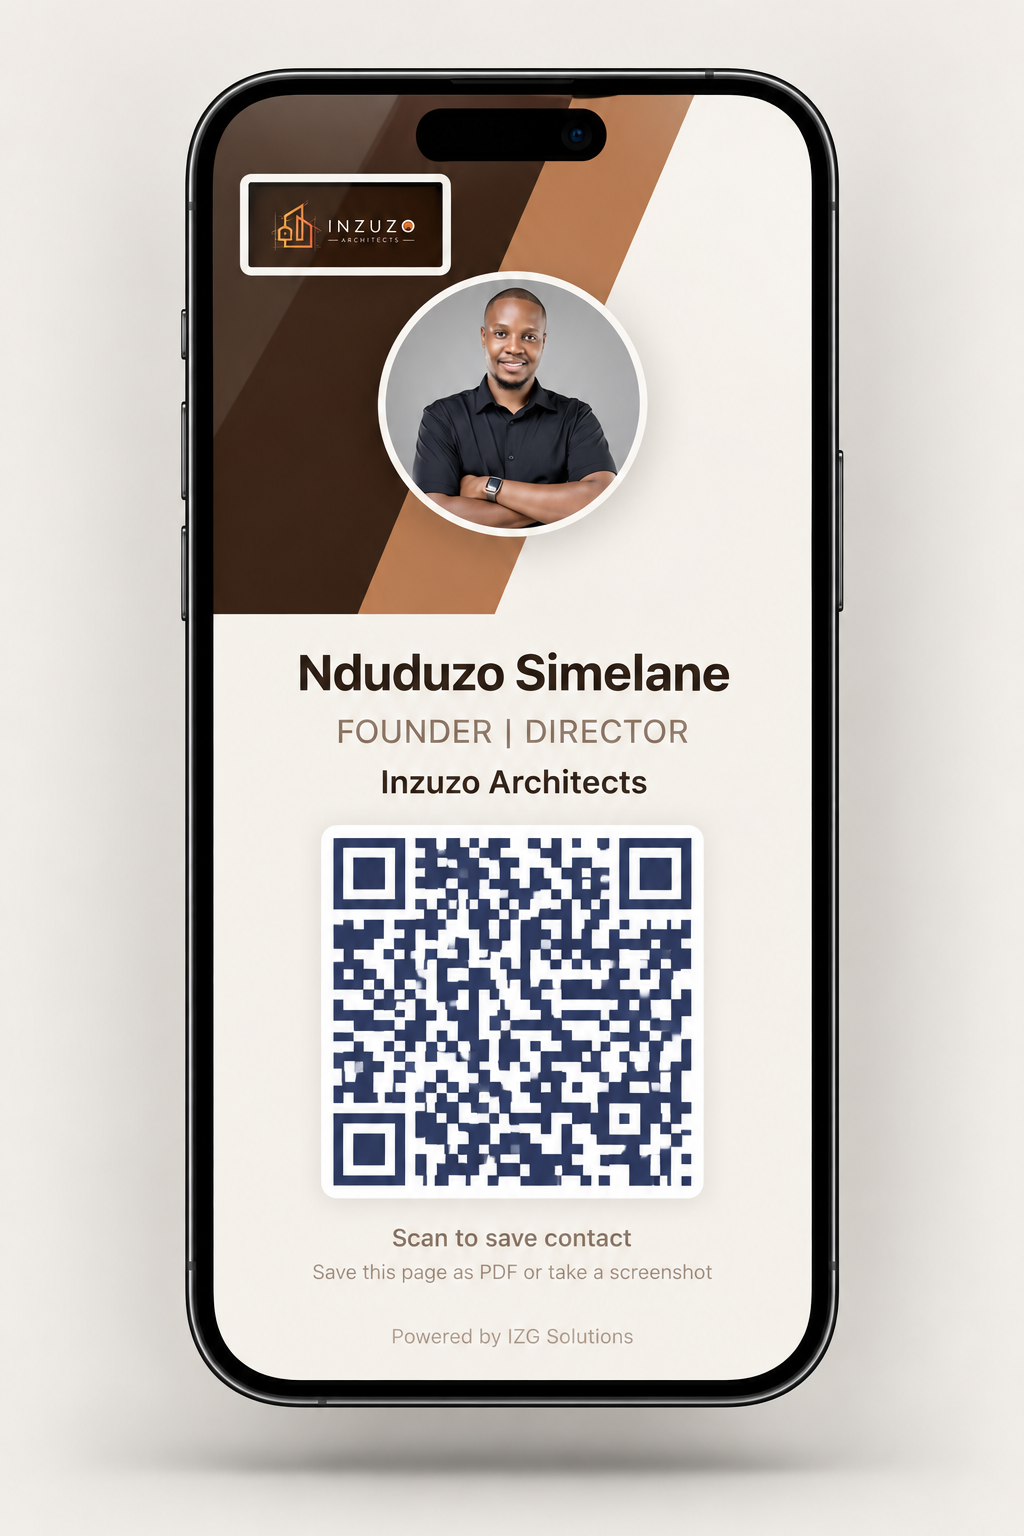
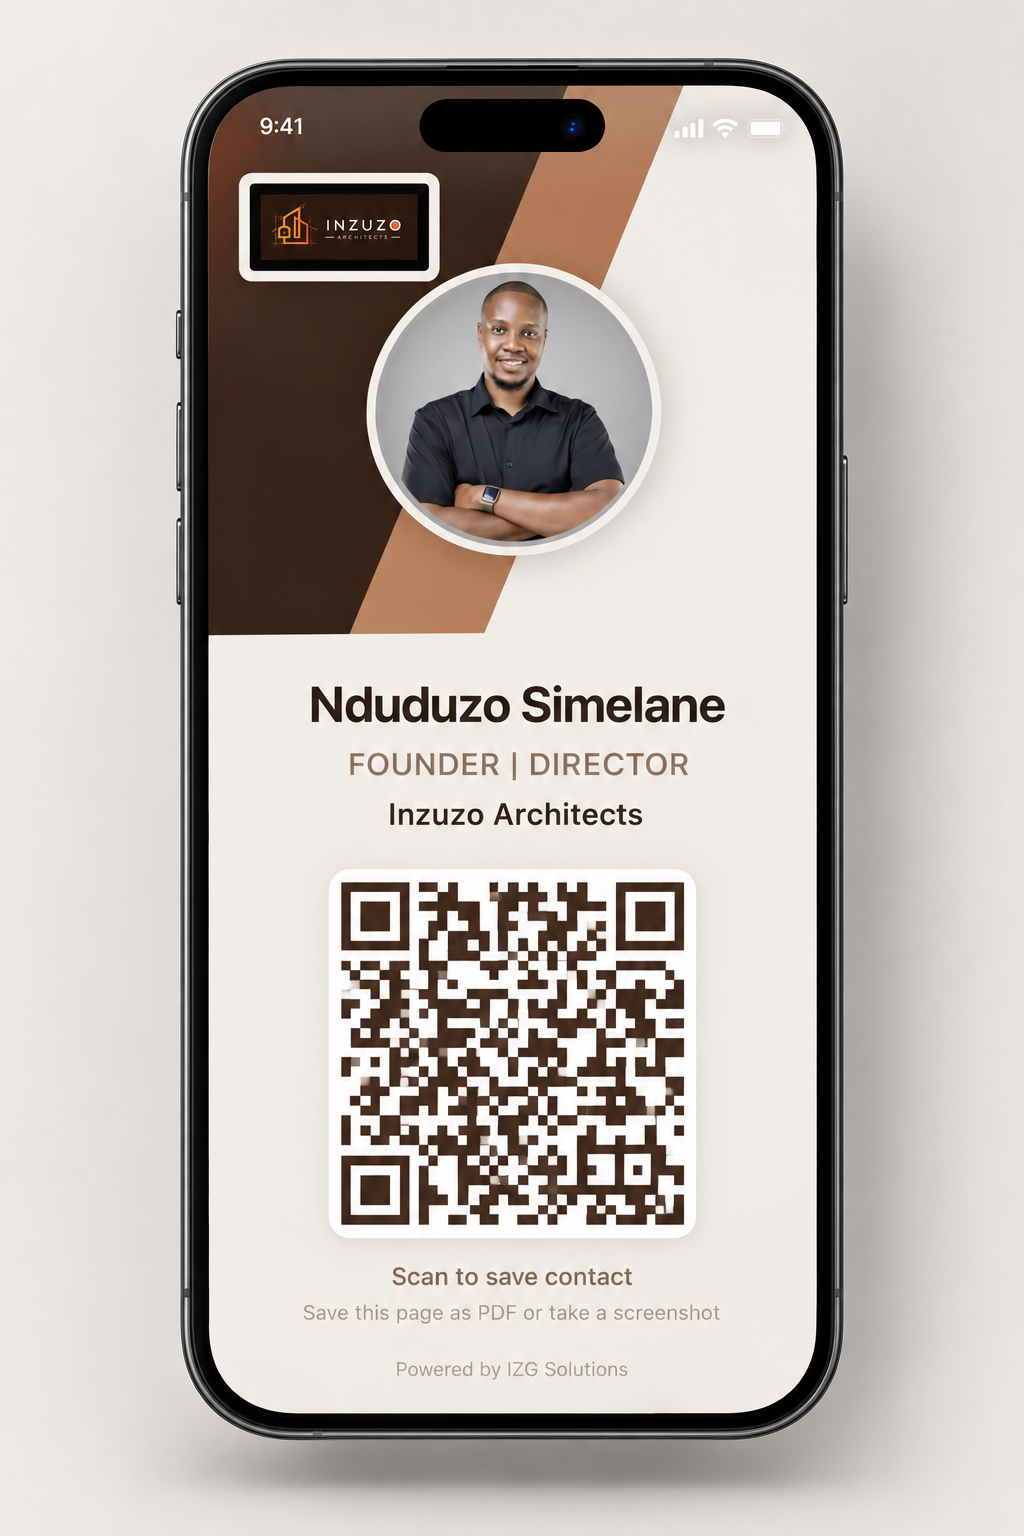
Update digital card mockups and add Nqobile Thabede
- Replace 4 card images (thabiso, nkambenhle, nduduzo, parthenope)
- Add new Nqobile Thabede card to the showcase

Changed region(s): [[0.1562, 0.0312, 0.9062, 1.0]]

diff --git a/app/work/projects.ts b/app/work/projects.ts
@@ -94,6 +94,11 @@ export const digitalCards: DigitalCard[] = [
     name: "Thabiso Mdluli",
     image: "/work/cards/thabiso-mdluli-card.png",
   },
+  {
+    slug: "nqobile-thabede",
+    name: "Nqobile Thabede",
+    image: "/work/cards/nqobile-thabede-card.png",
+  },
 ];
 
 export const projects: Project[] = [
